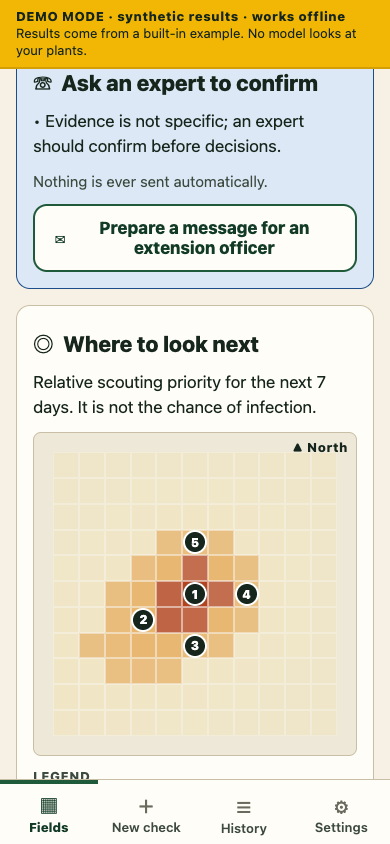
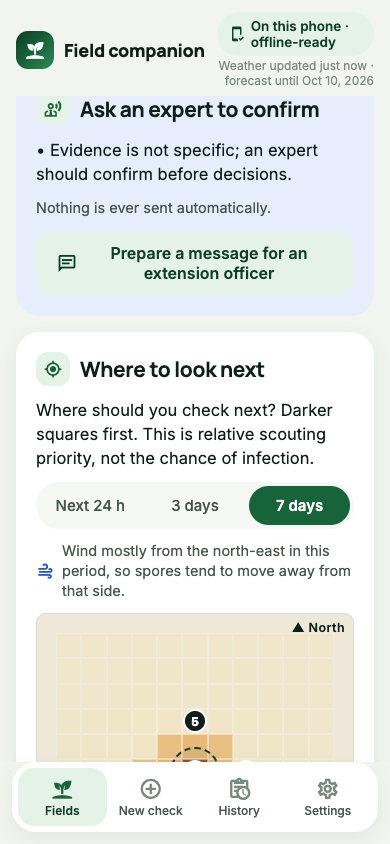
Screenshot tour rewritten for the photo-first app (phone + desktop, real on-device pipeline); map notes 7-day points

diff --git a/frontend/tests/screenshots.ts b/frontend/tests/screenshots.ts
@@ -1,109 +1,59 @@
-// Drives the static web export through the main journey and saves screenshots.
-// Usage: npm run build:web && (serve dist on :8090) && npx tsx tests/screenshots.ts [baseUrl]
+// Screenshot tour of the photo-first app (phone + desktop). Uses the persistent model profile so the
+// real on-device pipeline runs (source 'local'); falls back to demo mode with DEMO=1.
+// Usage: PROFILE=.cache/chrome-models npx tsx tests/screenshots.ts [app-origin]
 import { chromium, type Page } from 'playwright-core';
 import { mkdirSync } from 'node:fs';
 import path from 'node:path';
 
-const BASE = process.argv[2] ?? 'http://localhost:8081';
+const APP = process.argv[2] ?? 'http://localhost:8094';
 const OUT = path.resolve(__dirname, '../../docs/frontend/screenshots');
-const CHROME = process.env.CHROME_PATH ?? '/Applications/Google Chrome.app/Contents/MacOS/Google Chrome';
+const KEY = 'field-companion/state/v1';
 
-async function shot(page: Page, name: string) {
-  await page.waitForTimeout(250);
-  await page.screenshot({ path: path.join(OUT, `${name}.png`), fullPage: true });
+async function shot(page: Page, name: string, scrollTo?: string) {
+  if (scrollTo) await page.getByText(scrollTo).first().evaluate(el => el.scrollIntoView({ block: 'start' }));
+  await page.waitForTimeout(300);
+  await page.screenshot({ path: path.join(OUT, `${name}.png`) });
   console.log('saved', name);
 }
 
-async function journey(page: Page, prefix: string) {
-  await page.goto(BASE);
-  await page.evaluate(() => localStorage.clear());
-  await page.reload();
-  await page.getByText('Your fields').first().waitFor();
-  await shot(page, `${prefix}-01-fields`);
-
-  await page.getByRole('button', { name: 'Open' }).first().click();
-  await page.getByText('DEMO RESULT').waitFor();
-  await shot(page, `${prefix}-02-result-demo`);
-  for (const [heading, name] of [['Ask an expert to confirm', '02b-review'], ['Where to look next', '02c-map'], ['Is the weather favourable for the disease?', '02d-weather']] as const) {
-    await page.getByText(heading).first().evaluate(el => el.scrollIntoView({ block: 'start' }));
-    await page.waitForTimeout(150);
-    await page.screenshot({ path: path.join(OUT, `${prefix}-${name}.png`) });
-  }
-  await page.getByRole('button', { name: 'Prepare a message for an extension officer' }).click();
-  await page.getByText('This text will be shared').waitFor();
-  await page.getByText('This text will be shared').evaluate(el => el.scrollIntoView({ block: 'start' }));
-  await page.screenshot({ path: path.join(OUT, `${prefix}-02e-review-preview.png`) });
-
-  await page.getByRole('tab', { name: 'New check' }).click();
-  await page.getByRole('radio', { name: /Hillside coffee/ }).click();
-  await page.getByRole('button', { name: 'Next' }).click();
-  await page.getByRole('checkbox', { name: 'Looked under the leaves' }).click();
-  await shot(page, `${prefix}-03-check-evidence`);
-  await page.getByRole('button', { name: 'Next' }).click();
-  await page.getByRole('button', { name: 'Save check' }).click();
-  await page.getByText('Choose at least one option.').waitFor();
-  await page.getByRole('checkbox', { name: /Orange-yellow/ }).click();
-  await page.getByRole('radio', { name: 'Sure', exact: true }).click();
-  await shot(page, `${prefix}-04-check-symptoms`);
-  await page.getByRole('button', { name: 'Save check' }).click();
-  await page.getByText('DEMO RESULT').waitFor();
-  await page.getByRole('radio', { name: 'In 7 days' }).click();
-  await shot(page, `${prefix}-05-new-result`);
-
+async function tour(page: Page, prefix: string) {
+  await page.goto(APP); await page.evaluate(() => localStorage.clear()); await page.reload();
+  await page.getByTestId('check-field-demo-field-hillside').first().waitFor();
+  if (process.env.DEMO) { await page.evaluate(k => { const st = JSON.parse(localStorage.getItem(k)!); st.settings.source = 'mock'; localStorage.setItem(k, JSON.stringify(st)); }, KEY); await page.reload(); }
+  await shot(page, `${prefix}-01-home`);
+  await page.getByTestId('check-field-demo-field-hillside').first().click();
+  await shot(page, `${prefix}-02-photo-first`);
+  await page.getByTestId('check-sample-photo').click();
+  await page.getByText(/What the model saw|DEMO RESULT/).first().waitFor({ timeout: 300000 });
+  await shot(page, `${prefix}-03-result`);
+  await shot(page, `${prefix}-04-what-to-do`, 'What to do');
+  await shot(page, `${prefix}-05-model-saw`, 'What the model saw');
+  await shot(page, `${prefix}-06-map`, 'Where to look next');
+  const h24 = page.getByRole('radio', { name: 'Next 24 h' });
+  if (await h24.count()) { await h24.click(); await shot(page, `${prefix}-07-map-24h`, 'Where to look next'); }
+  await shot(page, `${prefix}-08-weather`, 'Is the weather favourable');
   await page.getByRole('tab', { name: 'History' }).click();
-  await shot(page, `${prefix}-06-history`);
-
-  // Persistence: reload and confirm the saved check survives.
-  await page.reload();
-  await page.getByRole('tab', { name: 'History' }).click();
-  const count = await page.getByText(/3 checks saved on this phone/).count();
-  if (!count) throw new Error('saved check did not survive reload');
-
-  // Server mode with no backend: unreachable state, check stays local and pending.
+  await shot(page, `${prefix}-09-history`);
   await page.getByRole('tab', { name: 'Settings' }).click();
-  await page.getByRole('radio', { name: /^Server/ }).click();
-  await page.getByRole('textbox', { name: 'Server address' }).fill('http://127.0.0.1:9');
-  await page.getByRole('button', { name: 'Test connection', exact: true }).click();
-  await page.getByText(/Could not connect/).waitFor();
-  await shot(page, `${prefix}-07-settings-unreachable`);
-  await page.getByRole('tab', { name: 'New check' }).click();
-  await page.getByRole('radio', { name: /Valley coffee/ }).click();
-  await page.getByRole('button', { name: 'Next' }).click();
-  await page.getByRole('button', { name: 'Next' }).click();
-  await page.getByRole('checkbox', { name: 'Pale yellow spots on top of leaves' }).click();
-  await page.getByRole('button', { name: 'Save check' }).click();
-  await page.getByText('No connection to the server').waitFor();
-  await shot(page, `${prefix}-08-pending-offline`);
-
-  // Unsupported locale fallback + French.
-  await page.getByRole('tab', { name: 'Settings' }).click();
-  await page.getByRole('radio', { name: /^Built-in demo/ }).click();
-  await page.getByRole('radio', { name: /Kinyarwanda/ }).click();
-  await page.getByRole('tab', { name: 'Fields' }).click();
-  await shot(page, `${prefix}-09-locale-fallback`);
-  await page.getByRole('tab', { name: 'Settings' }).click();
-  await page.getByRole('radio', { name: /Français/ }).click();
-  await page.getByRole('tab', { name: 'Parcelles' }).click();
-  await shot(page, `${prefix}-10-fields-fr`);
+  await shot(page, `${prefix}-10-settings`);
+  await shot(page, `${prefix}-11-settings-models`, 'Models on this device');
 }
 
-async function main() {
+(async () => {
   mkdirSync(OUT, { recursive: true });
-  const browser = await chromium.launch({ executablePath: CHROME, headless: true }); // isolated temp profile
+  const ctx = await chromium.launchPersistentContext(process.env.PROFILE ?? '.cache/chrome-models', {
+    executablePath: process.env.CHROME_PATH ?? '/Applications/Google Chrome.app/Contents/MacOS/Google Chrome', headless: !process.env.HEADED,
+    args: ['--enable-unsafe-webgpu', '--use-angle=metal'] });
   const errors: string[] = [];
   try {
-    for (const [prefix, viewport] of [['phone', { width: 390, height: 844 }], ['desktop', { width: 1280, height: 860 }]] as const) {
-      const page = await browser.newPage({ viewport, deviceScaleFactor: 1 });
+    for (const [prefix, viewport] of [['phone', { width: 390, height: 844 }], ['desktop', { width: 1440, height: 900 }]] as const) {
+      const page = await ctx.newPage();
+      await page.setViewportSize(viewport);
       page.on('pageerror', e => errors.push(`${prefix}: ${e.message}`));
-      page.on('console', m => { if (m.type() === 'error' && !/127\.0\.0\.1:9|ERR_CONNECTION_REFUSED|ERR_UNSAFE_PORT|Failed to load resource/.test(m.text())) errors.push(`${prefix}: ${m.text()}`); });
-      try { await journey(page, prefix); }
-      catch (e) { await page.screenshot({ path: path.join(OUT, `FAIL-${prefix}.png`), fullPage: true }).catch(() => {}); throw e; }
-      finally { await page.close().catch(() => {}); }
+      page.on('console', m => { if (m.type() === 'error') errors.push(`${prefix}: ${m.text()}`); });
+      try { await tour(page, prefix); } finally { await page.close(); }
     }
-  } finally {
-    await browser.close();
-  }
+  } finally { await ctx.close(); }
   if (errors.length) { console.error('Console errors:\n' + errors.join('\n')); process.exitCode = 1; }
-  else console.log('Journey passed with no console errors');
-}
-main().catch(e => { console.error(e); process.exitCode = 1; });
+  else console.log('Tour passed with no console errors');
+})().catch(e => { console.error(e); process.exitCode = 1; });

diff --git a/frontend/src/i18n/fr.ts b/frontend/src/i18n/fr.ts
@@ -359,6 +359,7 @@ export const fr: Messages = {
   'plan.next': 'Ensuite',
   'plan.ifWorse': 'Si cela s’aggrave',
   'plan.sourcesBelow': 'Chaque étape provient de sources de vulgarisation ou de recherche publiées ; voir Conseils plus bas.',
+  'result.map.pointsFixed': 'Les cases montrent cette période ; les points numérotés restent ceux du plan sur 7 jours.',
   'common.loading': 'Chargement…',
   'common.close': 'Fermer',
   'common.yes': 'Oui',

diff --git a/frontend/src/i18n/en.ts b/frontend/src/i18n/en.ts
@@ -357,6 +357,7 @@ export const en = {
   'plan.next': 'Next',
   'plan.ifWorse': 'If it gets worse',
   'plan.sourcesBelow': 'Each step is from published extension or research sources; see Guidance below.',
+  'result.map.pointsFixed': 'Squares show this period; numbered points stay those of the 7-day plan.',
   'common.loading': 'Loading…',
   'common.close': 'Close',
   'common.yes': 'Yes',

diff --git a/frontend/src/screens/RiskMap.tsx b/frontend/src/screens/RiskMap.tsx
@@ -73,6 +73,7 @@ export function RiskMap({ map, scouting }: { map: Analysis['map']; scouting: Ana
           })}
         </View>
       ) : null}
+      {layer && layer.hours !== defaultHours ? <Body soft>{t('result.map.pointsFixed')}</Body> : null}
       {layer ? (
         <Row style={{ gap: space(2) }}>
           <Icon name="weather-windy" size={18} color={color.sky} />
